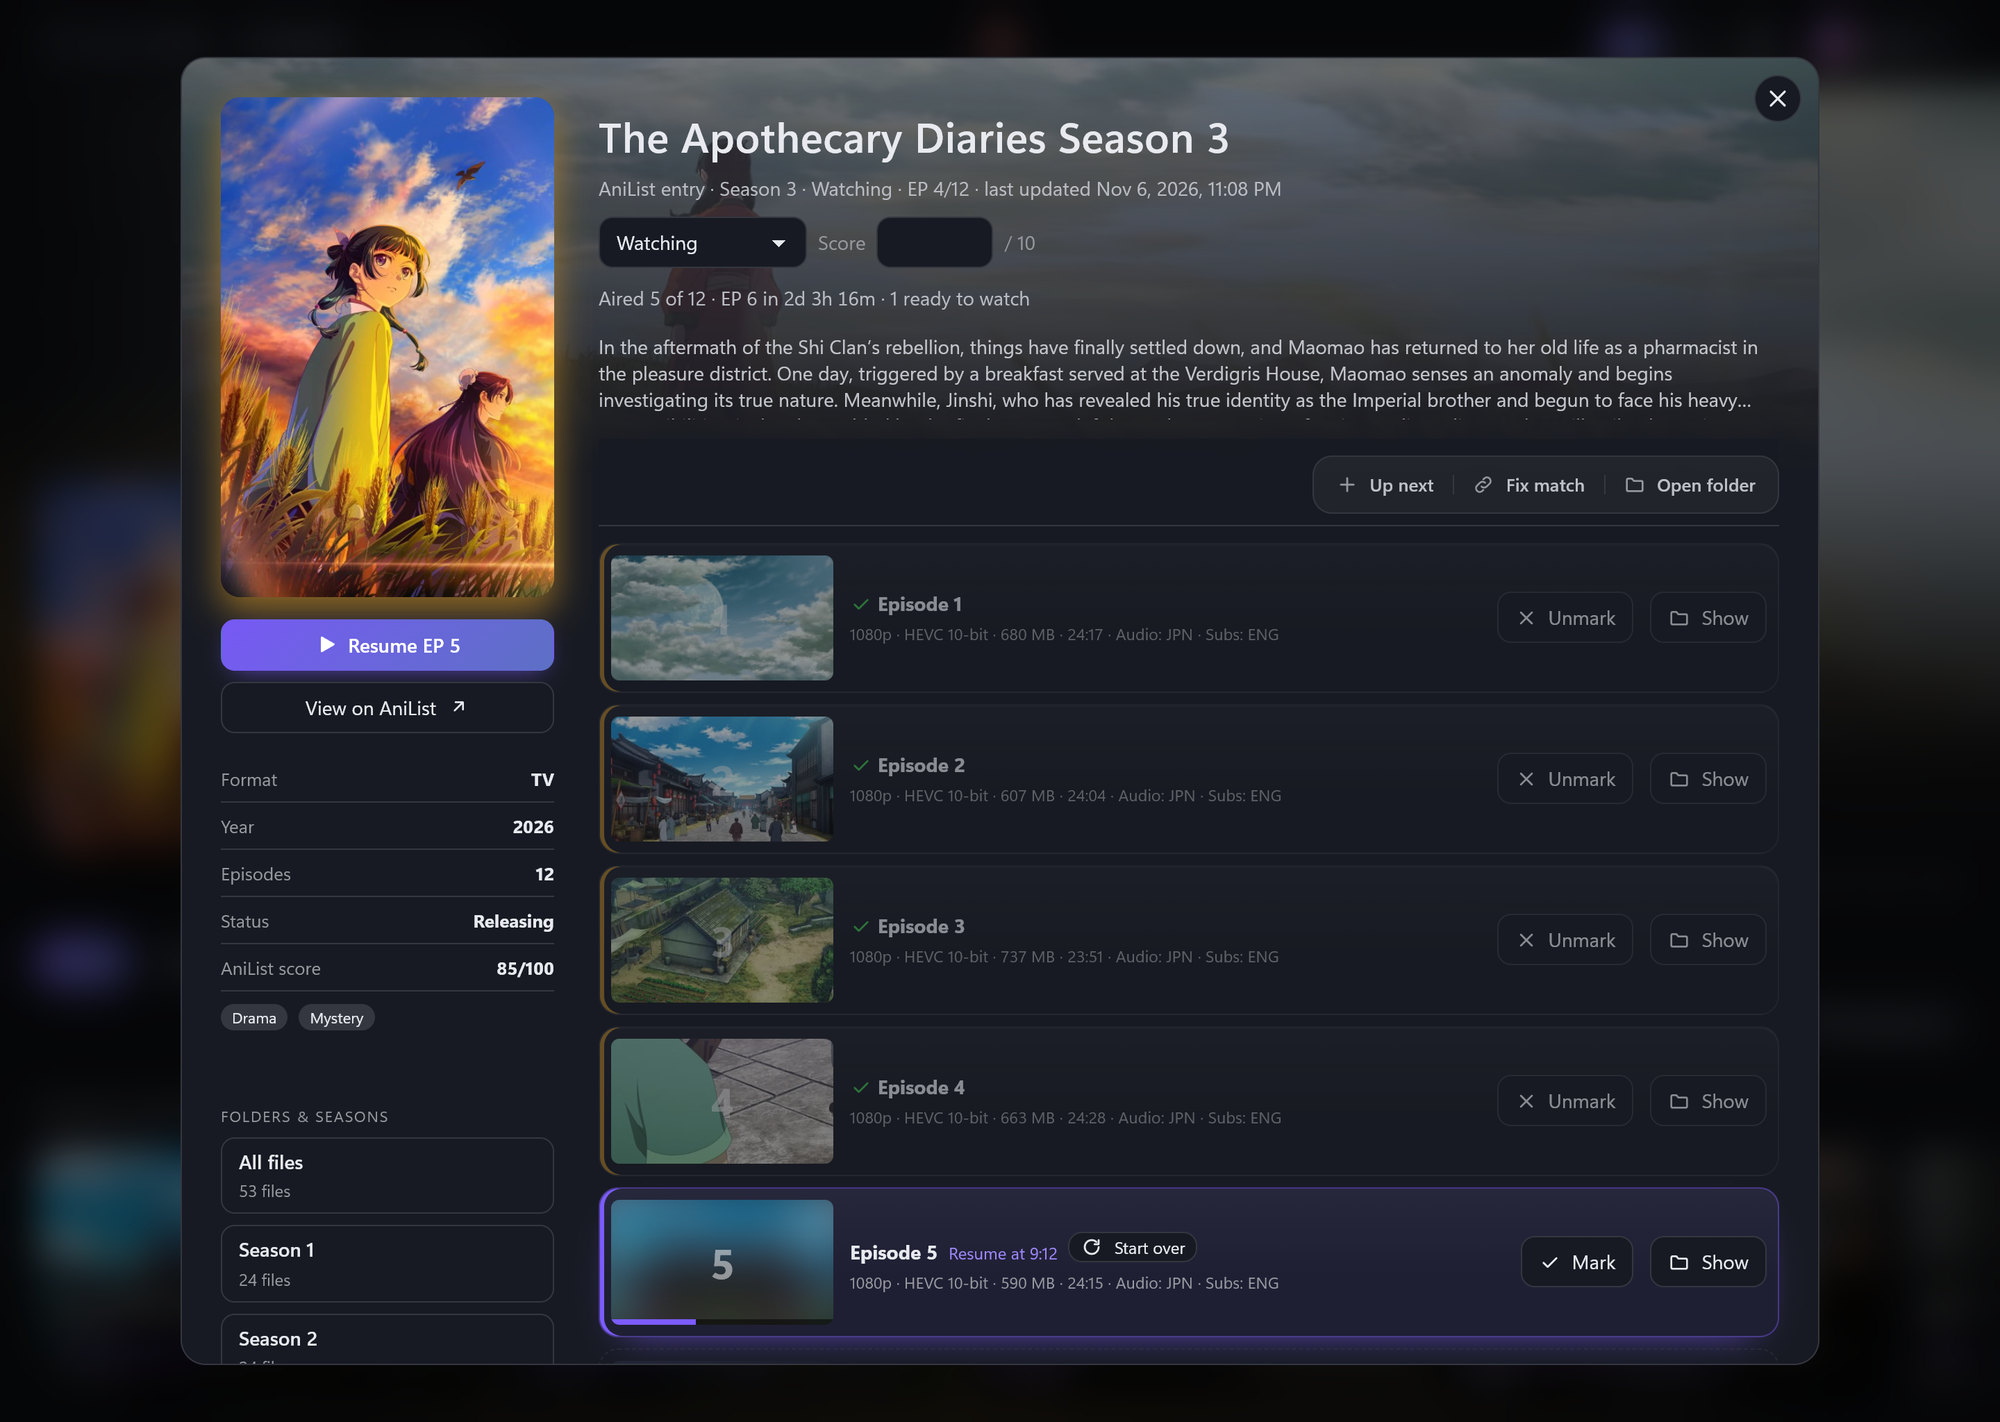
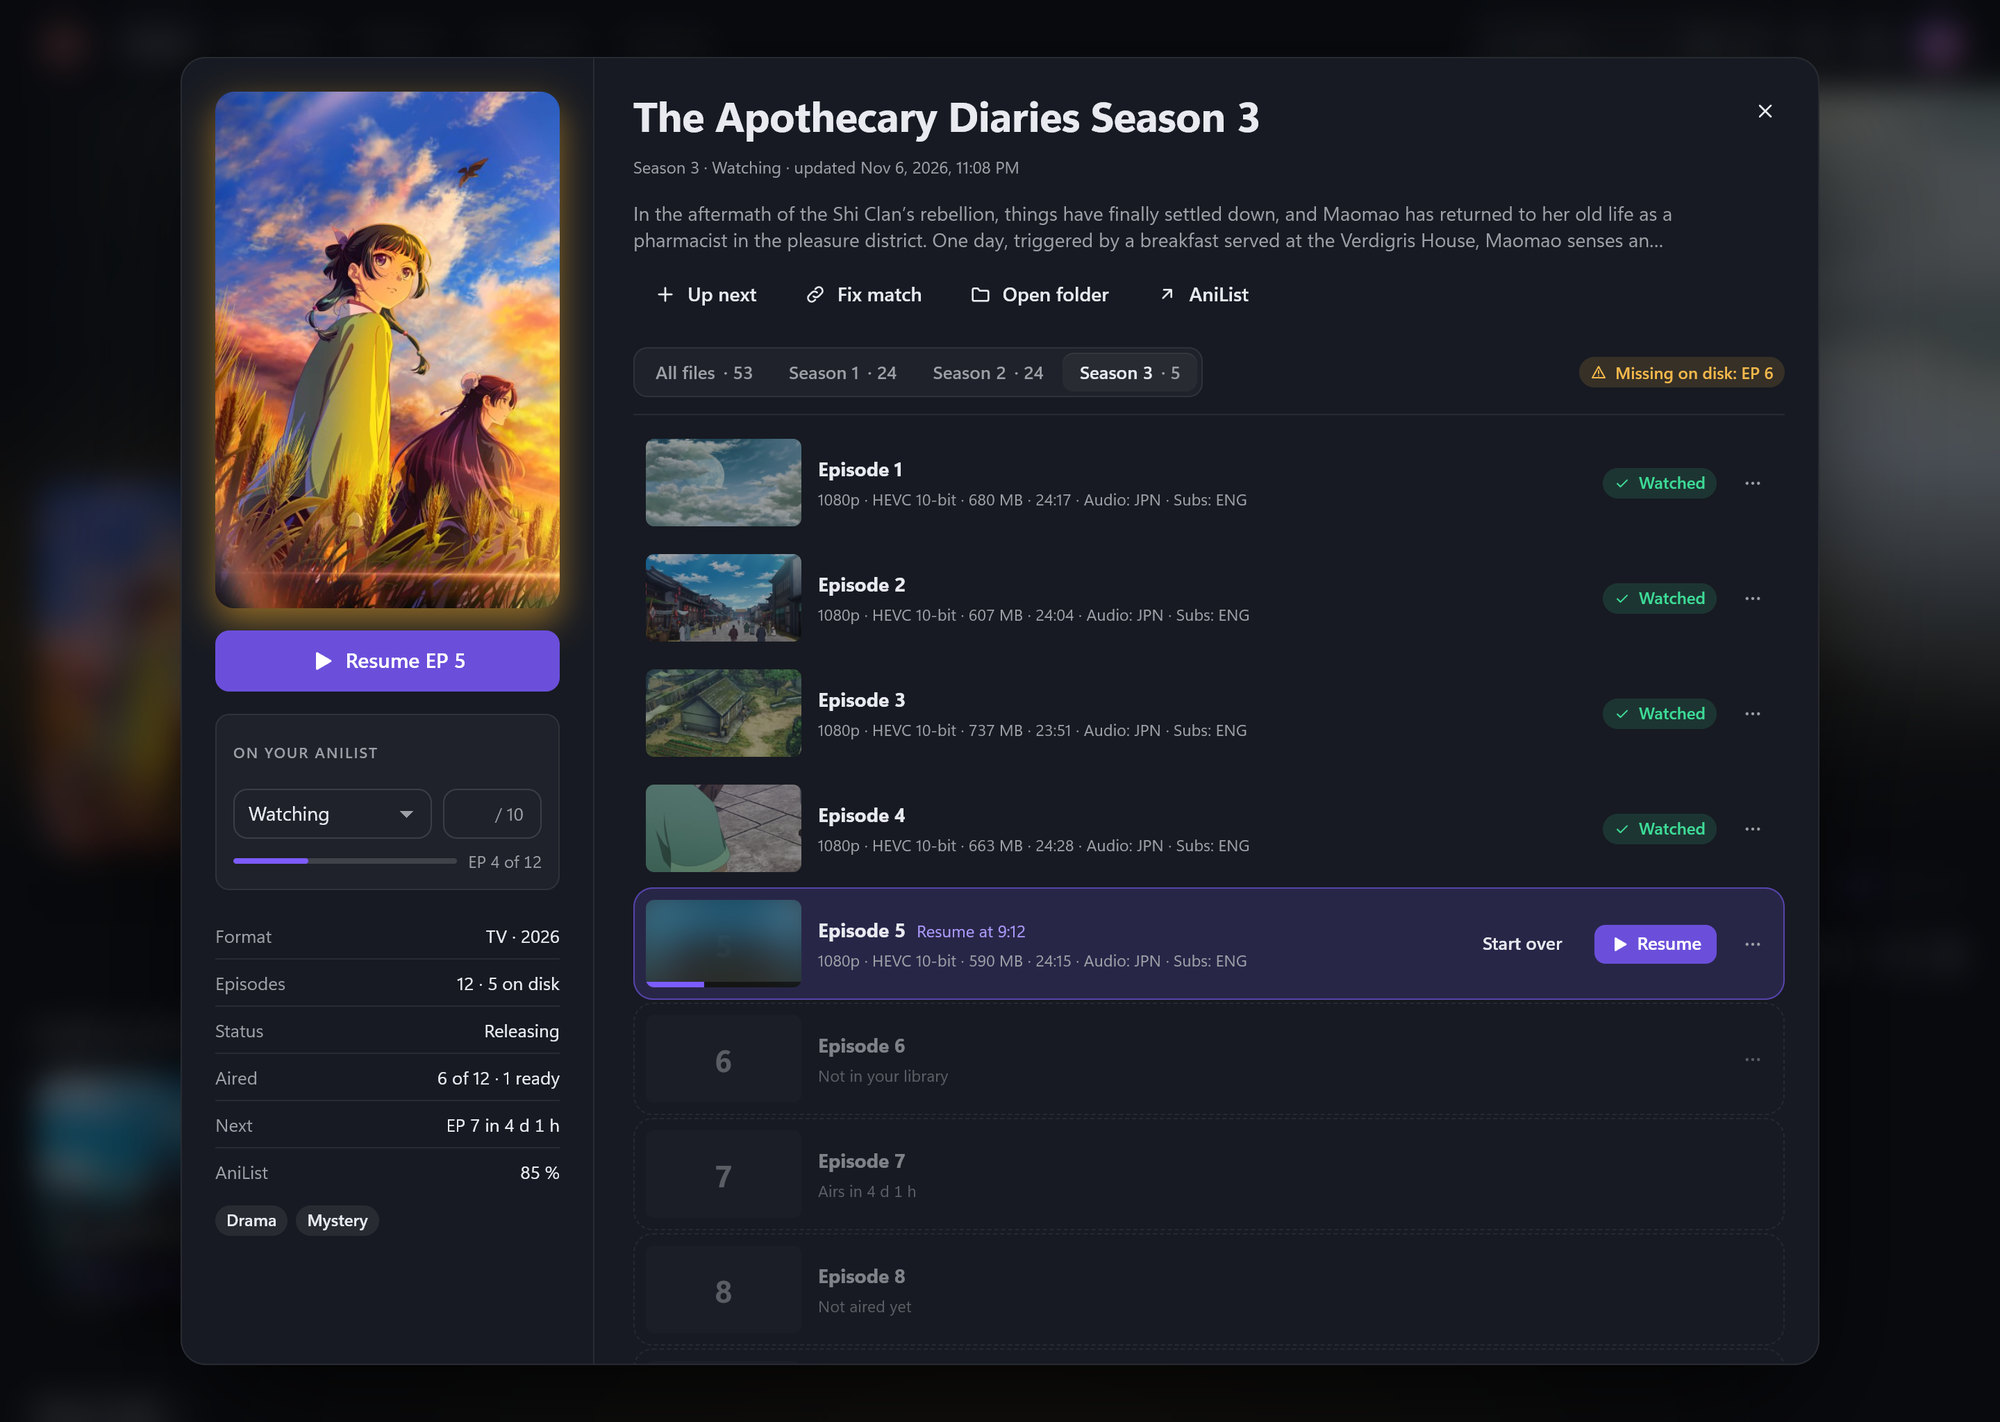
2.0.0: phone access, new settings and new screenshots
The README for 2.0: On your phone (VLC, Tailscale, the firewall
rules), the Tailscale line in What leaves your PC, the phone
listener, two troubleshooting rows, new settings in What it does,
the episode menu and the filter button in Everyday use, and the five
pictures taken again from the same demo library.

diff --git a/README.md b/README.md
@@ -7,7 +7,7 @@ list kept up to date as you watch. It runs on your own PC, in its own window.
 
 This repository holds the releases; what changed in each version is in its [release notes](../../releases).
 
-![Anirari's library: the banner of a show you are watching (The Apothecary Diaries Season 3) with Resume and Episodes, the filters, and the Continue watching row](screenshots/library.jpg)
+![Anirari's library: Home with the banner of a show you are watching (The Apothecary Diaries Season 3) with Resume, Episodes and +, Surprise me, the filter and view buttons, and the Continue watching row](screenshots/library.jpg)
 
 ## What it does
 
@@ -16,33 +16,38 @@ This repository holds the releases; what changed in each version is in its [rele
   offers its best guess with **Link**.
 - **What to watch next.** Continue watching (with how far you got), Up next (your own shortlist), new-episode and airing badges, a banner
   with the shows you are watching, grid or list view, filters and sorting, and a library overview (missing episodes, what is not in your
-  library yet - next seasons, movies, OVAs, your Planning list - and disk space per show).
+  library yet - next seasons, movies, OVAs, your Planned list - and disk space per show).
 - **Search everything with Ctrl+K**: shows, actions and settings, from anywhere.
 - **Episode windows**: every episode with a thumbnail and its file details (resolution, audio and subtitle languages), the next one to
-  watch highlighted, other versions of an episode grouped under it, and the episodes you don't have yet listed with when they air.
+  watch highlighted, your AniList status, score and progress, the seasons as tabs, other versions of an episode grouped under it, and
+  the episodes you don't have yet listed with when they air.
 - **Plays in mpv**, resumes where you stopped, plays the next episode by itself if you like, skips openings and endings (it finds them by
   listening to the episodes), and marks the episode watched on AniList when you reach the credits.
+- **On your phone** (new in 2.0, optional): your library in the phone's browser, and each episode opens in **VLC on the phone**,
+  played straight from your PC - at home, or anywhere through Tailscale.
 - **Your AniList list in step**: progress, status and score. Changes made while you are offline are kept and sent once AniList can be
   reached, and every change can be undone.
-- **Make it yours**: 10 themes, a theme builder (poster colours, ambient glow, background gradients), your own CSS, card sizes, Reduce
-  motion, optional sound effects.
+- **Make it yours**: 10 themes, a theme builder (poster colours, ambient glow, background gradients), your own CSS (saved as profiles),
+  which lists the header shows and in what order, card sizes, Reduce motion, optional sound effects.
 - Optional: **Discord** status, **Windows notifications** for new episodes, your **friends' activity** from AniList.
 - **Backups** of everything that matters (settings, match fixes, resume points, watch history, Up next) - automatic, every week unless you
   choose otherwise - and a diagnostics page for when something is off.
 
 ## A look around
 
-**A show's window**: every episode with its thumbnail and file details, how far you got, and when the next one airs.
+**A show's window**: every episode with its thumbnail and file details, your AniList status, score and progress, the seasons as
+tabs, and when the next one airs.
 
-![The episode window of The Apothecary Diaries Season 3: the cover, the list status, when episode 6 airs, and the episodes with thumbnails, file details and Resume at 9:12](screenshots/episodes.jpg)
+![The window of The Apothecary Diaries Season 3: the cover, Resume, On your AniList, the details, the season tabs, and the episodes with thumbnails, file details and Resume at 9:12](screenshots/episodes.jpg)
 
-**Library overview**: totals, aired episodes missing on disk, and the next seasons, movies and OVAs that are not in your library yet.
+**Library overview**: totals, what needs a look (aired episodes missing on disk, sequels and movies not in your library yet), your
+list by status and your drives.
 
-![The library overview: totals, aired episodes missing on disk, and the sequels and movies not in the library yet, each with its cover](screenshots/overview.jpg)
+![The library overview's summary: eight totals, Needs a look, your list by status and the drive's space](screenshots/overview.jpg)
 
-**Ctrl+K**: one search for shows, actions and settings.
+**Ctrl+K**: one search for shows, actions and settings, with a preview of the highlighted one.
 
-![The Ctrl+K search listing the shows, actions and settings that match "fr"](screenshots/search.jpg)
+![The Ctrl+K search listing the shows, actions and settings that match "fr", with Frieren's preview and Resume EP 2](screenshots/search.jpg)
 
 **Themes**: ten built in (here Light, Sakura, Ocean and Cyberpunk) and a theme builder for your own.
 
@@ -83,6 +88,26 @@ On another port, or if you prefer, use an AniList API client of your own: create
 
 Your login is stored encrypted for your Windows account.
 
+## On your phone
+
+**Settings › App › Phone access** (off until you turn it on):
+
+1. Turn on **Let a phone open Anirari**. Settings shows the address to open on the phone (your PC on the home network, and its
+   Tailscale name if you have Tailscale).
+2. Open that address in the phone's browser, press **Pair a phone** on the PC, and type the 6-digit code on the phone.
+3. The phone gets your library. Tap an episode (or **Play next**): it opens in **VLC** on the phone, which plays it straight from the
+   PC - seeking works, and the PC stays awake while VLC reads. **Copy link** gives the link for another player.
+
+Back from VLC, the phone asks **Finished EP 5?** - marking is always your tap. Marking, status, score and Up next work from the phone;
+settings and folders stay on the PC. On an iPhone, VLC needs **Local Network** allowed (Settings › Privacy & Security › Local
+Network).
+
+- **Away from home**: install [Tailscale](https://tailscale.com/) on the PC and the phone (the same account) and pair with the PC's
+  Tailscale name: it works at home and away. **Secure address through Tailscale** serves Anirari over https.
+- **Windows Firewall** may keep phones out: **Allow phones in Windows Firewall** adds Anirari's own two rules for the phone port, with
+  Windows' permission - your home network on private networks only, and Tailscale.
+- Paired phones are listed with **Remove**, which ends a phone's links at once.
+
 ## Everyday use
 
 | | |
@@ -91,8 +116,9 @@ Your login is stored encrypted for your Windows account.
 | **?** | Every keyboard shortcut |
 | **Arrow keys** | Move between cards and rows once one has focus (Tab, or a click), up to the banner, and between episodes in a show's window |
 | **Refresh** | Look for new files and sync with AniList. Anirari never syncs by itself, unless you turn on **Sync with AniList when the app starts** |
-| **Mark** / **Mark up to here** / **Unmark** | Change your AniList progress by hand (undo in the message that follows) |
+| An episode's **⋯** menu: **Mark** / **Mark up to here** / **Unmark** | Change your AniList progress by hand (undo in the message that follows) |
 | **Fix match** | When a show is matched to the wrong AniList entry |
+| The filter button | Genre, year, sorting, and on All shows which lists to show |
 | **Private mode** | Nothing is marked on AniList automatically, no Discord status, no watch history - until you turn it off |
 
 While an opening or ending plays in mpv, press **Enter** to skip it - or let Anirari skip them by itself (**Settings › Playback**).
@@ -108,11 +134,15 @@ What leaves your PC:
   movies of your shows (at most once a week); the changes you make or
   Anirari makes for you (marks, status, score); friend activity, when you open it; covers and banners from AniList's image servers.
 - **Discord**, only if you set it up: what you're watching, through the Discord app on your PC.
+- **Tailscale**, only with Phone access on and Tailscale installed: Anirari asks the Tailscale program on your PC for its address and
+  name (and, with the secure address on, has it serve Anirari over https).
 - **GitHub** (this page), once a day and when you press **Check for updates**: which version is the newest - and on an installed copy
   the new version's setup, when there is one. Both can be turned off in **Settings › About**.
 - Nothing else: no analytics, no telemetry.
 
-Anirari's server listens only on your own PC (`127.0.0.1`), so websites you visit cannot use it. Backups and support bundles never contain
+Anirari's server listens only on your own PC (`127.0.0.1`), so websites you visit cannot use it. With **Phone access** on, a second
+listener answers on your home network and Tailscale addresses only (port 8766): to paired phones, and to anyone else only with the
+pairing page. Backups and support bundles never contain
 your AniList login, and a backup or settings file from someone else cannot change which programs Anirari runs unless you tick them.
 
 ## Updating
@@ -134,7 +164,9 @@ one, and everything you had stays.
 | Refresh says AniList could not be reached | Your saved list stays and your shows keep their matches; press **Refresh** again once you're online |
 | A line says a library folder can't be reached | Switch the drive on or reconnect the network folder (or fix the folder in **Settings › Library**), then **Look again**. Nothing is lost while it's away |
 | Anirari says your settings could not be read | The damaged file is kept as `config.broken-<date>.json` in the data folder. Review the newest automatic backup when it asks - or later in **Settings › Data & storage › Backup & restore** |
-| A show is matched wrongly | **Fix match** in its episode window |
+| A show is matched wrongly | **Fix match** in its window |
+| VLC on an iPhone says Playback failed | Allow VLC **Local Network** (Settings › Privacy & Security › Local Network), and check that the phone is on the same network or on Tailscale |
+| The phone can't open Anirari's address | **Allow phones in Windows Firewall** in **Settings › App › Phone access**; at home, check the phone is on the same Wi-Fi |
 | No thumbnails or file details | **Settings › Data & storage › Diagnostics & logs** shows which ffmpeg is used; **ffmpeg program** sets another |
 | Episodes open in the wrong player | **Settings › Playback › Play with** and **Player program** |
 | Your own CSS hid something | **Ctrl+Alt+C** turns custom CSS off |
